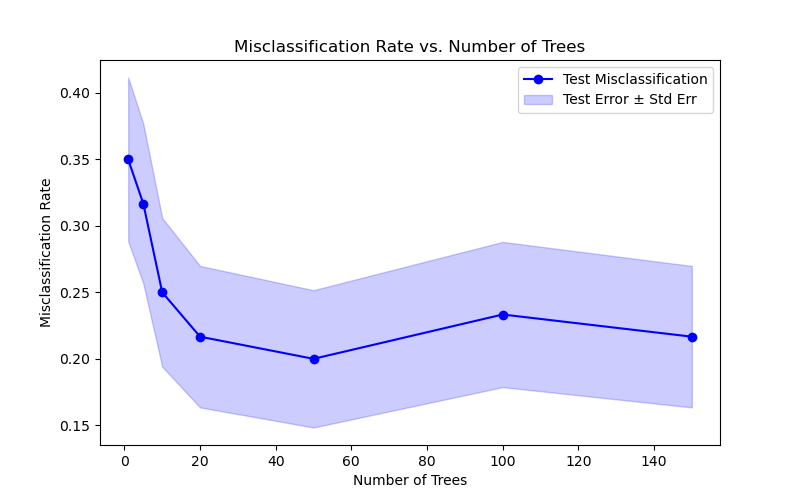
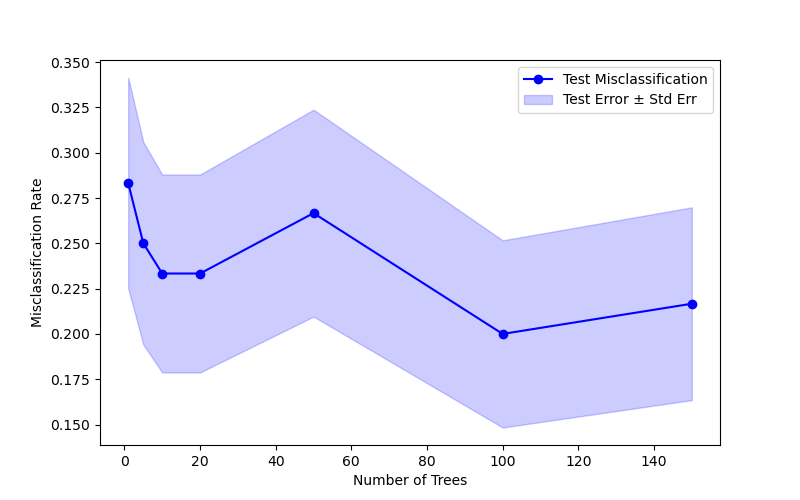
Added table plot for misclassification rates and standard errors with rounded values

diff --git a/Trees and Forests/hw_tree.py b/Trees and Forests/hw_tree.py
@@ -433,10 +433,6 @@ def plot_misclassification_vs_trees(train, test, tree_counts=None):
         test_errors.append(test_mis)
         test_std_errors.append(test_std)
 
-    print(f"Train Errors: {train_errors}")
-    print(f"Test Errors: {test_errors}")
-    print(f"Test Std Errors: {test_std_errors}")
-
     plt.figure(figsize=(8, 5))
     plt.plot(tree_counts, test_errors, marker='o', linestyle='-', color='b', label="Test Misclassification")
     plt.fill_between(tree_counts,
@@ -446,14 +442,31 @@ def plot_misclassification_vs_trees(train, test, tree_counts=None):
 
     plt.xlabel("Number of Trees")
     plt.ylabel("Misclassification Rate")
-    plt.title("Misclassification Rate vs. Number of Trees")
+    # plt.title("Misclassification Rate vs. Number of Trees")
     plt.legend()
 
     save_path = "visualizations/misclassification_vs_trees.png"
     plt.savefig(save_path)
     plt.show()
 
-    print(f"Plot saved to {save_path}")
+    # create a table with the results
+    cell_text = []
+    for i in range(len(tree_counts)):
+        train_mr = round(train_errors[i], 2)
+        test_mr = round(test_errors[i], 2)
+        test_std_err = round(test_std_errors[i], 2)
+
+        cell_text.append([tree_counts[i], train_mr, test_mr, test_std_err])
+
+    columns = ['#Trees', 'Train MR', 'Test MR', 'Test Std Err']
+
+    fig, ax = plt.subplots(figsize=(8, 4))
+    ax.axis('off')
+    ax.table(cellText=cell_text, colLabels=columns, loc='center', cellLoc='center', bbox=[0, 0, 1, 1])
+
+    table_save_path = "visualizations/misclassification_table.png"
+    plt.savefig(table_save_path, bbox_inches='tight')
+    plt.show()
 
 
 def train_and_compare(learn, test):
@@ -509,8 +522,8 @@ if __name__ == "__main__":
     # print("full", hw_tree_full(learn, test))
     # print("random forests", hw_randomforests(learn, test))
 
-    print('variable importance', plot_variable_importance(learn[0], learn[1], legend))
-    # print('misclassification vs trees', plot_misclassification_vs_trees(learn, test))
+    # print('variable importance', plot_variable_importance(learn[0], learn[1], legend))
+    print('misclassification vs trees', plot_misclassification_vs_trees(learn, test))
 
     # print('train and compare', train_and_compare(learn, test))
 
